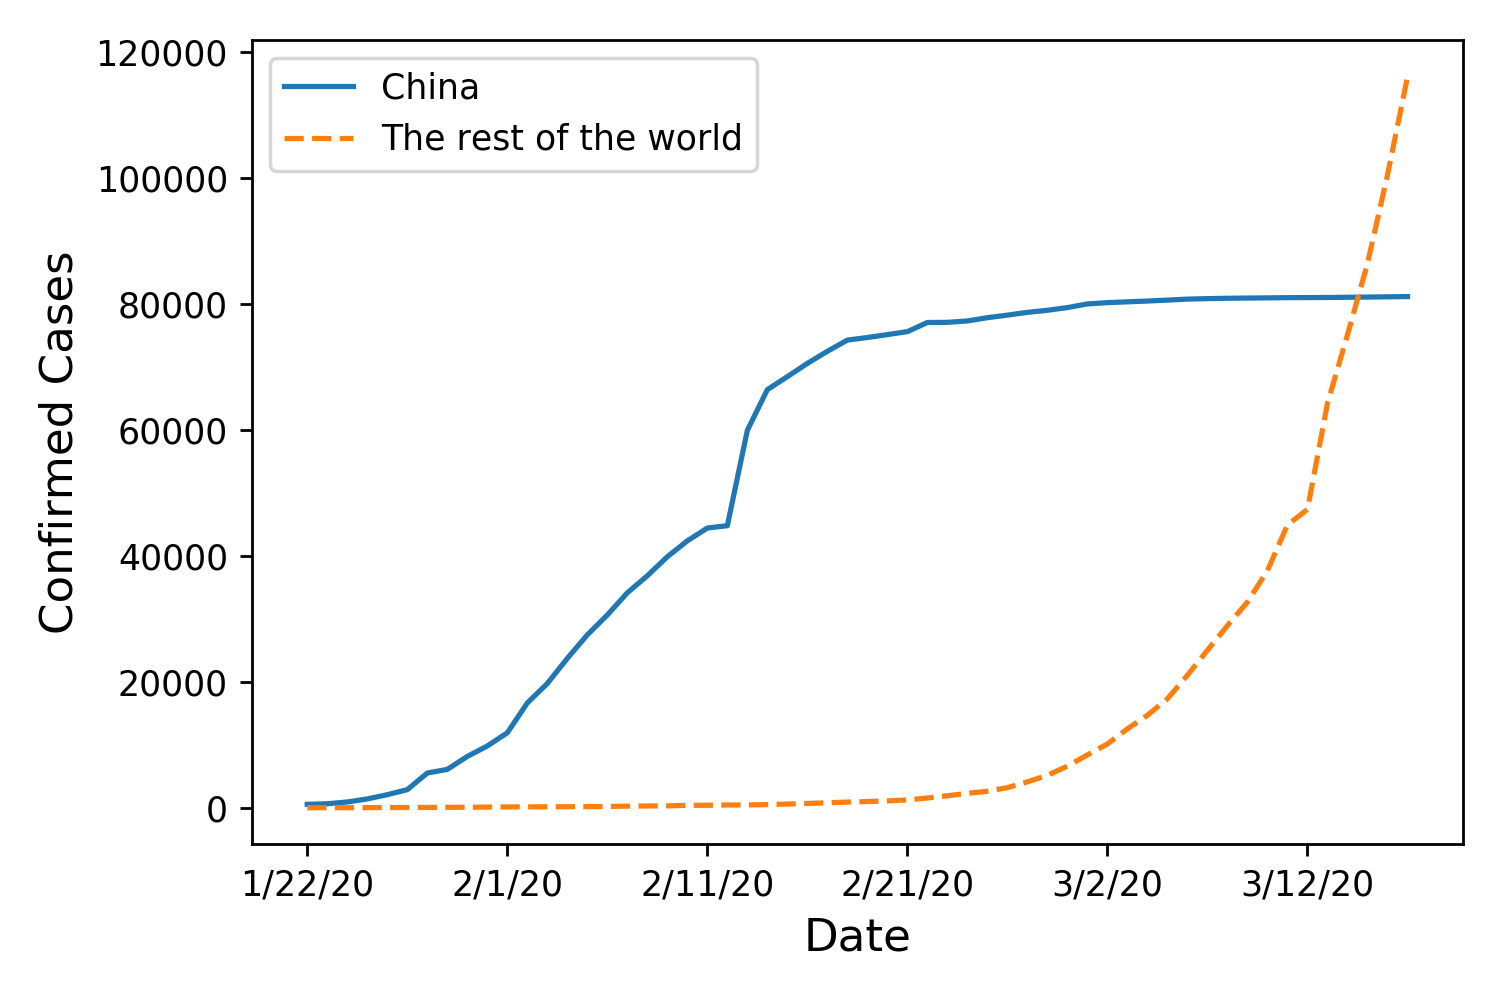
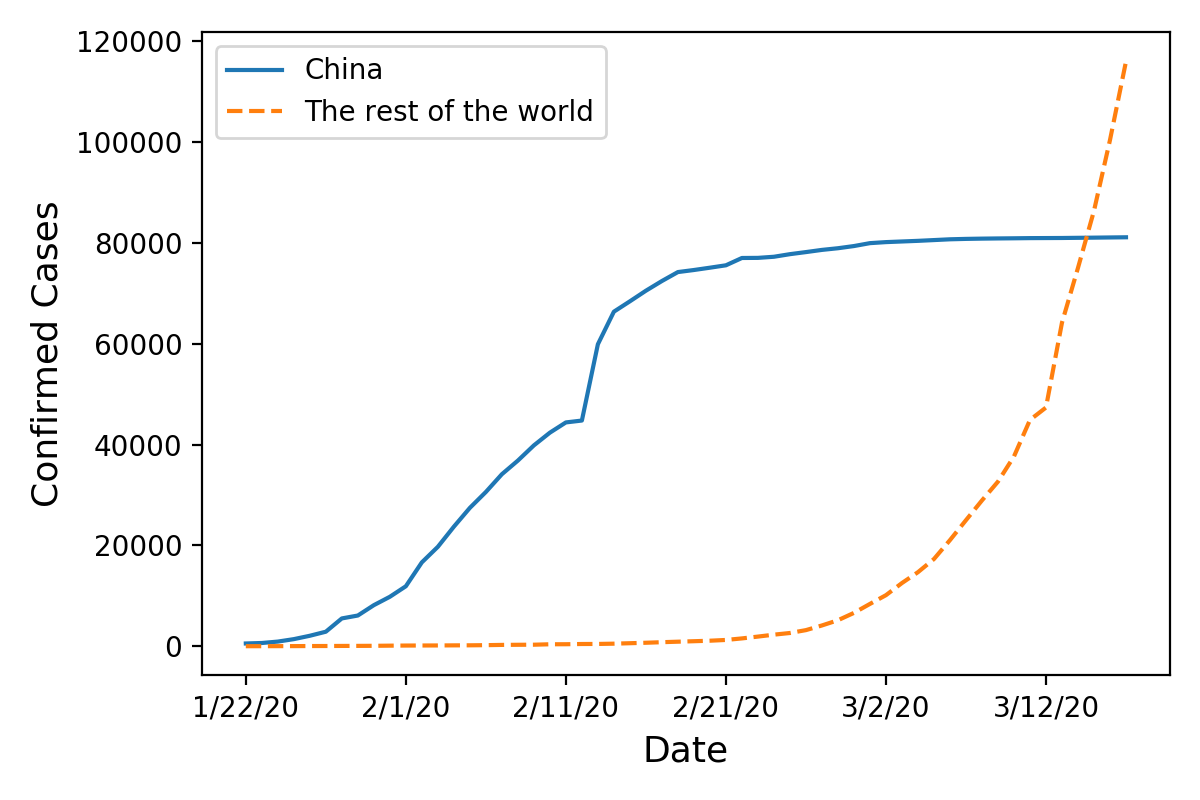
Adjust figure size

diff --git a/statistic_outside_China.py b/statistic_outside_China.py
@@ -24,7 +24,7 @@ plt.xlabel('Date', fontsize=13)
 plt.ylabel('Confirmed Cases', fontsize=13)
 plt.legend(loc='upper left')
 plt.tight_layout()
-plt.savefig('png/Confirmed cases.png', dpi=250)
+plt.savefig('png/Confirmed cases.png', dpi=200)
 plt.show()
 
 plot_countries = ['Singapore', 'Italy', 'Japan', 'Korea, South']
@@ -39,5 +39,5 @@ confirmed_data_m.iloc[25:, :].plot(style=plot_styles, figsize=(6, 4))
 plt.xlabel('Date', fontsize=13)
 plt.ylabel('Confirmed Cases', fontsize=13)
 plt.tight_layout()
-plt.savefig('png/Confirmed Cases of Selected Countries.png', dpi=250)
+plt.savefig('png/Confirmed Cases of Selected Countries.png', dpi=200)
 plt.show()
